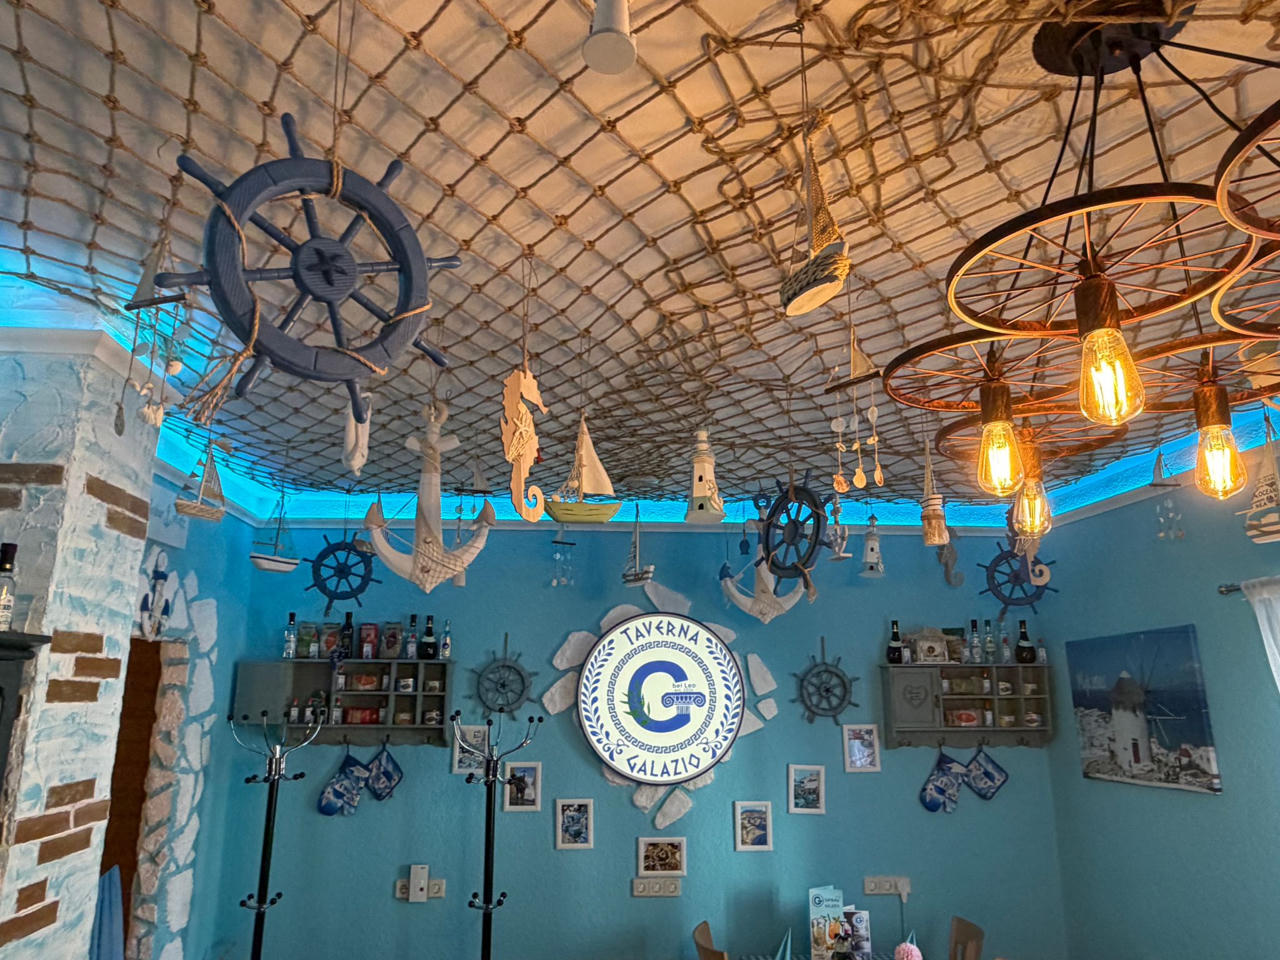
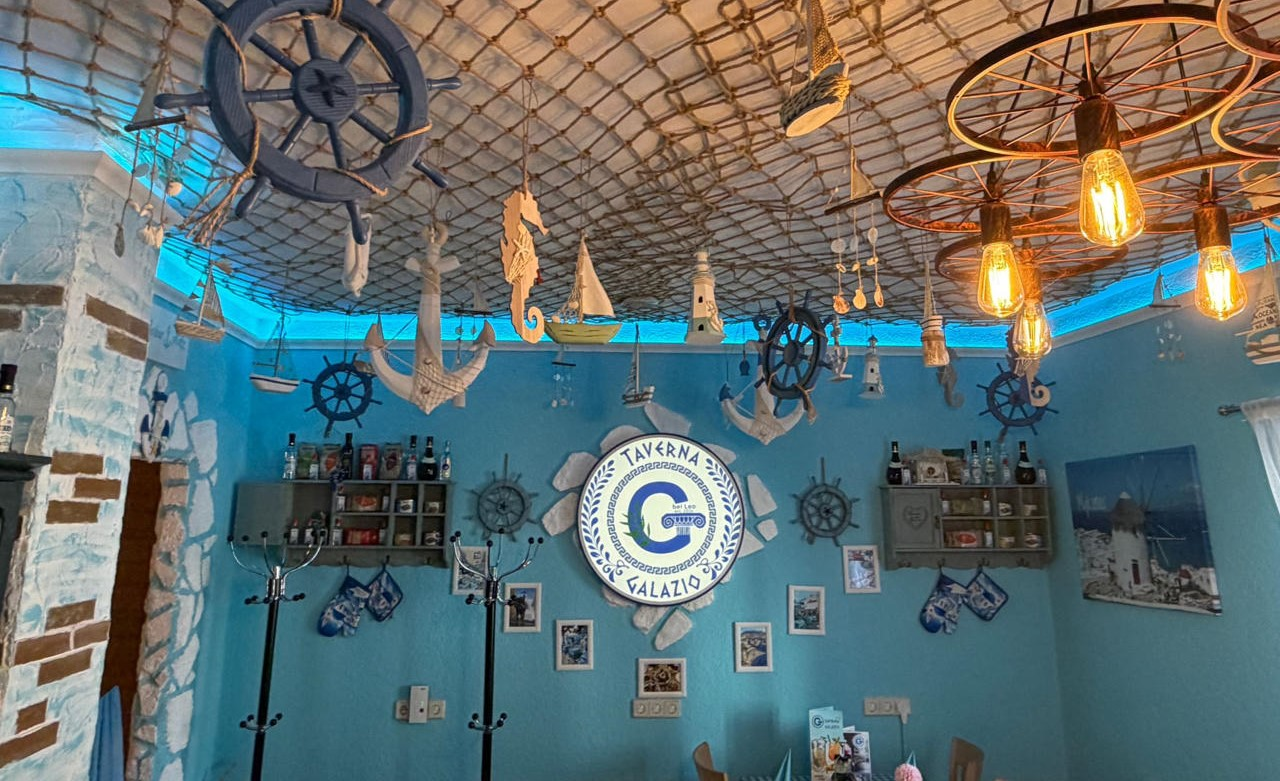
herosection background

diff --git a/components/hero.tsx b/components/hero.tsx
@@ -10,7 +10,7 @@ export function Hero() {
         <div 
           className="absolute inset-0 bg-cover bg-center bg-no-repeat"
           style={{
-            backgroundImage: `url('images/herosection.png')`,
+            backgroundImage: `url('images/photoforevents.jpg')`,
           }}
         />
         <div className="absolute inset-0 bg-gradient-to-b from-primary/70 via-primary/50 to-primary/80" />
